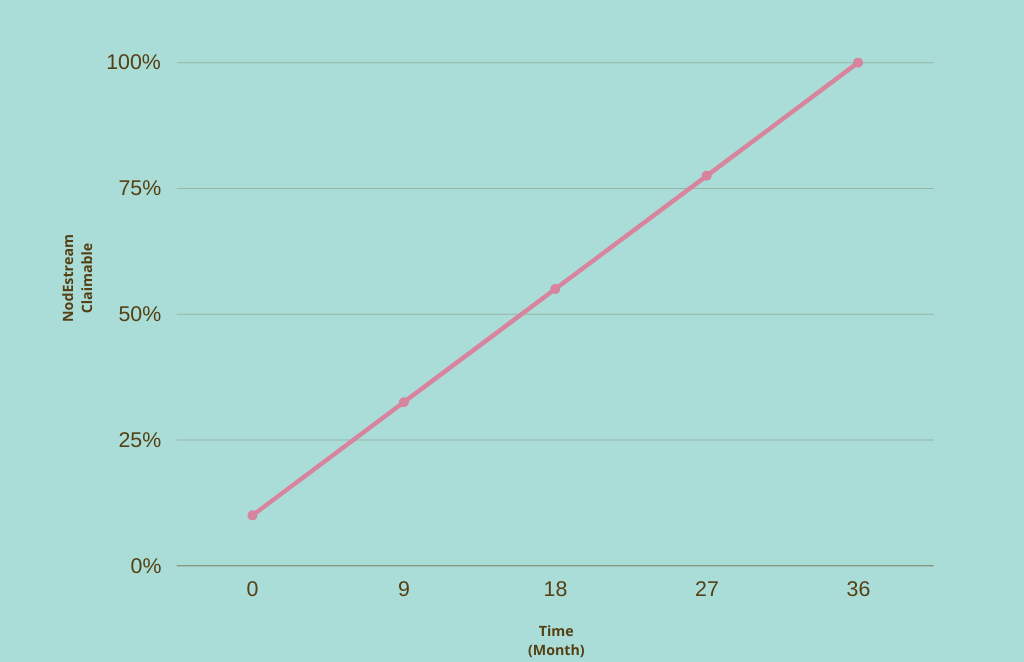
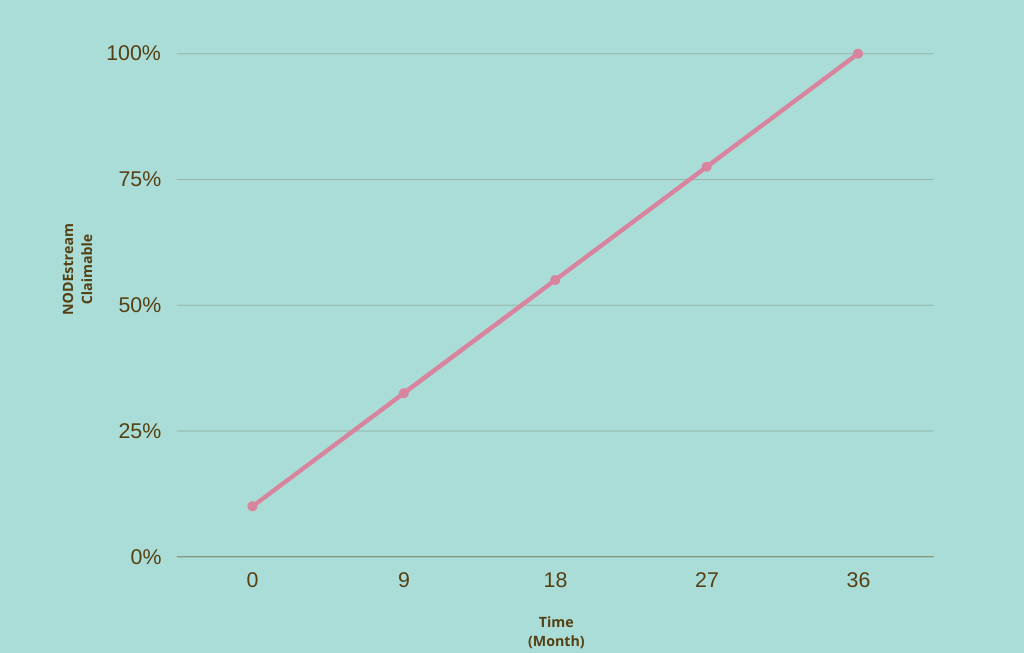
Fix time table and image

diff --git a/docs/dao/node-basics.md b/docs/dao/node-basics.md
@@ -30,13 +30,13 @@ Check your NODEdrop [here](http://app.dappnode.io/nodedrop).
 
 90% of the entire initial supply of NODE has been allocated to the "NODEstream" which is set to flow for a period of 3 years (36 months - i.e. until July 2024). This is essentially a continous stream of NODE that flows out of the "Reservoir" and into the "Claimable" section of the dashboard. NODEstream distribution can be roughly tracked as follows:
 
-| Date                                                         | Month | Claimable | Held in Reservoir |
-| ------------------------------------------------------------ | ----- | --------- | ----------------- |
-| Jul 17 2021 22:00:00 GMT+0200 (Central European Summer Time) | 0     | 10%       | 90%               |
-| Apr 2022                                                     | 9     | 32.5%     | 67.5%             |
-| Jan 2023                                                     | 18    | 55%       | 45%               |
-| Nov 2023                                                     | 27    | 77.5%     | 22.5%             |
-| Aug 2024                                                     | 36    | 100%      | 0%                |
+| Date                                                          | Month | Claimable | Held in Reservoir |
+| ------------------------------------------------------------- | ----- | --------- | ----------------- |
+| Jul 17 2021, 22:00:00 GMT+0200 (Central European Summer Time) | 0     | 10%       | 90%               |
+| Apr 17 2022, 22:00:00 GMT+0200 (Central European Summer Time) | 9     | 32.5%     | 67.5%             |
+| Jan 17 2023, 22:00:00 GMT+0200 (Central European Summer Time) | 18    | 55%       | 45%               |
+| Oct 17 2023, 22:00:00 GMT+0200 (Central European Summer Time) | 27    | 77.5%     | 22.5%             |
+| Jul 17 2024, 16:00:00 GMT+0200 (Central European Summer Time) | 36    | 100%      | 0%                |
 
 The NODEstream works on a time-based linear function, meaning the reservoir will gradually hold a smaller percentage of your NODE and thus more NODE is made instantly available from your staking rewards. At the end of the NODEstream The reservoir will no longer hold any NODE and 100% of your staking rewards will be instantly claimable.
 
